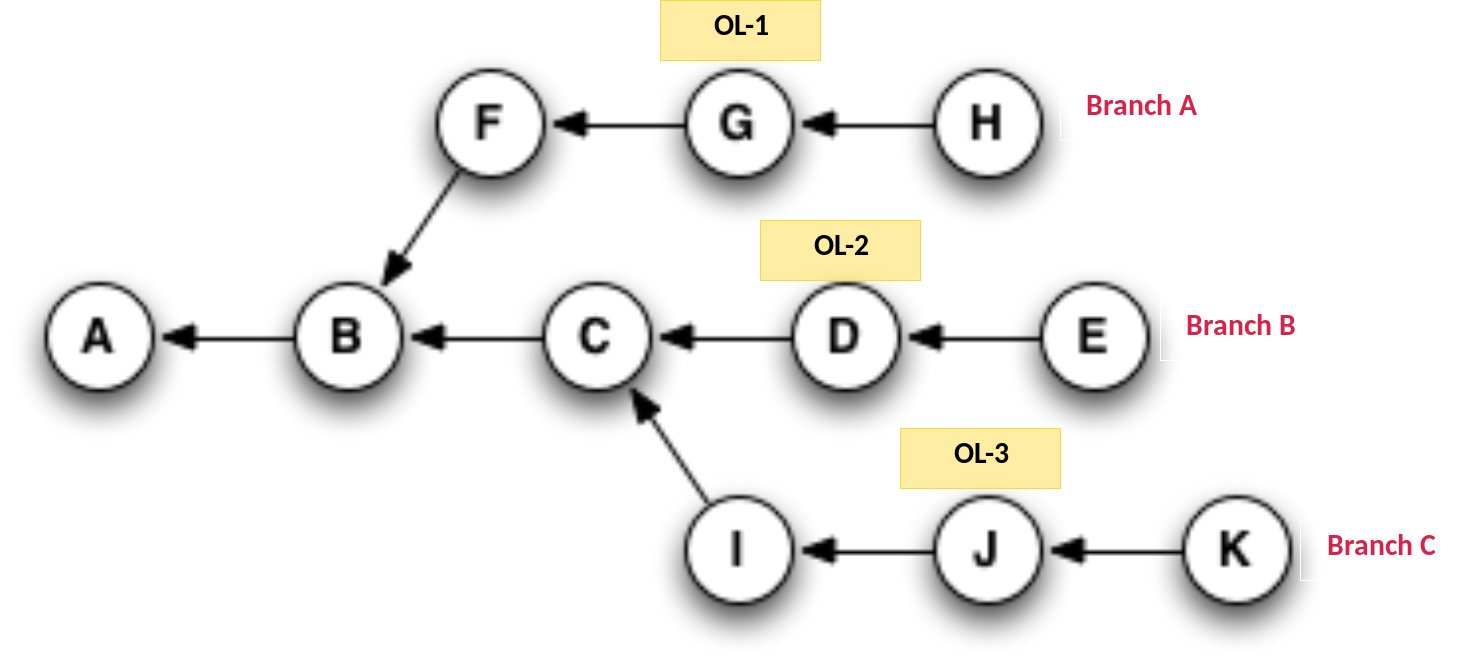
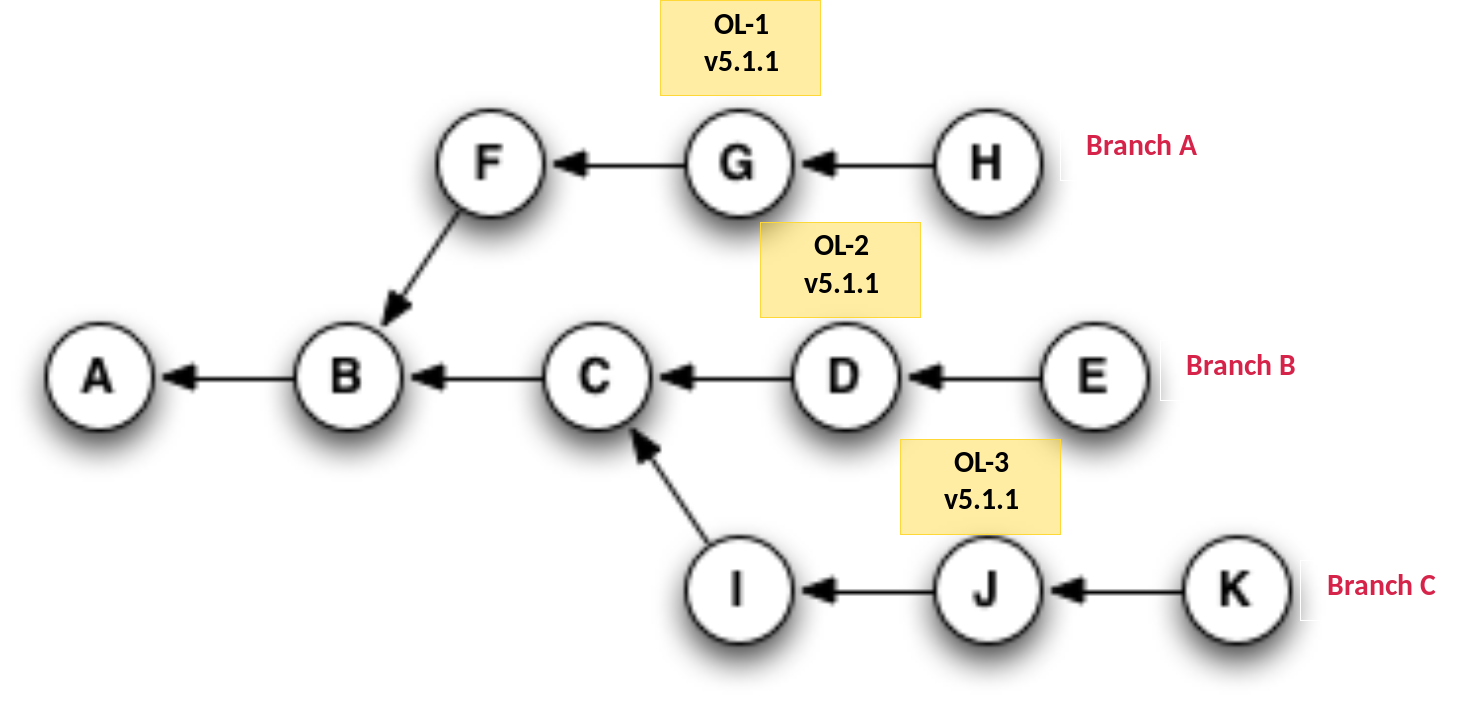
Add gitjira pictures and a thought.

Changed region(s): [[0.0, 0.0, 0.8932, 0.938], [0.8932, 0.8169, 0.9856, 0.8472]]

diff --git a/content/thoughts/cart and horse.md b/content/thoughts/cart and horse.md
@@ -1,0 +1,80 @@
+Title: Cart and Horse
+Date: 2020-07-12 10:57
+Slug: cart and horse
+Author: Feng Xia
+
+<figure class="col l4 m6 s12">
+  <img src="images/social%20distancing.png"/>
+</figure>
+
+
+It's a turmoil time, in America. It's a huge confusing time, that the
+Corvid-19 is being used as a case in point that China has done a
+brilliant job controlling the virus, while US is failing the _test_
+miserably, systematically. On top of all these, there is the racial
+fight, that all lives matter, or some lives matter, or B life matters
+(only?), and the looking back for redemption of historical sin, be it
+slavery, Columbus being a terrible person (and he was, based on what I
+heard on YouTube, and Noah confirms that), and so were the other many
+famous figures whose statues are now being questioned, toppled, hailed
+at its destruction, at its disfiguring, at its humiliation, at its
+deglorification.
+
+But then, it is a slippery slope, because, where would we stop? Whose
+status can still stand if viewing in such a hindsight judging w/
+modern day criteria, or moral threshold we believe today, but may not
+be so back then? This is the same dilemma of the [In Defense of
+History][1] how we can study history, or even view history, and ever
+be _objective_, _neutral_, _factual_ &larr; it is theoretically
+impossible.cThen, what's on the other side of all these _good words_!?
+&rarr; bias, prejudice, discrimination, and so on.
+
+The logic seems to be in a loop, that cart and horse, chicken and egg,
+which goes first? Many of the articles criticizing America's failure
+of dealing w/ virus and other social issues are rooted in a premise,
+in my opinion, that US has all the capacity to make a happy life for
+its citizens (and the entire human race), but it failed to do so,
+because it's so illy prepared that resulted in shortage of masks,
+ventilators, hospitals, jobs, and on and on and on, and therefore, as
+a consequence, people die, suffer, not having the American dream.
+
+However, who don't we question these, assumptions, first!? Who said
+American should be granted with such a life? Why would hospital stock
+enough ventilators while it doesn't know, and would never be able to
+predict, how many it needs for the next, emergency? And even once we
+know the wave is coming, how would we be so sure that we could have
+just stock up and ramp up, and will be ready for the hit, if we had
+chosen!? Honestly, even w/ good preparation and sincere effort as
+hoped, a disaster strike will still be, disastrous. It's like wearing
+thick clothes when removing a hornet nest from your porch &mdash; yes
+it will make the sting less painful, but no it's not a solution, thus
+should not be the goal on its own. Rather, you should start asking why
+hornet decides to put a nest there, and anywhere else he could live
+peacefully with you &mdash; after all, hornet didn't nest there just
+to annoy you. Sorry, he puts there because he didn't know it's YOUR
+HOME, and he sees it only a suitable place for his purpose, and likely
+you probably have driven him there because he doesn't have any woods,
+grasses, trees, shades, to build anymore since you wiped the
+environment out to build your highways and houses!
+
+Same here. Virus is not a phenomenon that God is punishing human. It
+has been in the nature, somewhere, until it touches one out of
+thousands of living things it touched already, human. We view them as
+evils, and they are, to us. But it's only a relative thing. We human
+are arrogant, just like we think American is arrogant, that we think
+we deserve a certain type of treatment, that the world, or the
+planent, or the universe, should bend to our will, cater to our
+interest, and satisfy our desire. That, is the root of all these, ill
+feelings. 
+
+I don't mean we should give up expectation, because that is not
+humanly possible. But I do think we should reestablish a discussion of
+social contract, that means two parties enter an agreement, and each
+end holds right, but more importantly, responsibility. The fight, if
+is a mean to bring the other person to the negotiation table, is
+necessary, but is not a mean to claim a victory, because negotiation
+is not a mark of either victory or defeat &mdash; it should be the
+starting point when two sides are now on the same footing, no more, no less.
+
+
+[1]: https://www.amazon.com/Defense-History-Richard-J-Evans/dp/0393319598

diff --git a/content/thoughts/517.md b/content/thoughts/517.md
@@ -3,6 +3,7 @@ Date: 2020-04-24 15:13
 Tags: thoughts
 Slug: 517
 Author: Feng Xia
+Modified: 2020-07-03
 
 Add my thoughts on how to remodel 517. I have some ideas. Most surely,
 I want a big bookshelf as my Boston home, and I'm going to remove
@@ -40,6 +41,9 @@ will see.
   <figcaption>Raaks engineering drawing</figcaption>
 </figure>
 
+6/21/2020 Bookshelf is up!! Loaded w/ 80% of my books now. Looks
+beautiful! Thank you Noah!
+
 # kitchen shelf
 
 Don't like wall cabinets &mdash; they are boxes on wall and so high
@@ -58,11 +62,41 @@ boring boxes!
 
 # kitchen
 
+## island
+
+- [ikea](https://www.ikea.com/us/en/p/rimforsa-work-bench-stainless-steel-bamboo-60399412/)
+  is nice. I wish I could afford the cb2, but it's too expansive.
+  
+  
+## display cabinet
+
+- Two of [ikea billy
+  79"](https://www.ikea.com/us/en/p/billy-oxberg-bookcase-with-glass-doors-white-s69281804/),
+  can create a whole wall of this and store/display bowls, plats, and
+  other things. I think it will look cool.
+
+- [a black metal
+  cabinet](https://www.luxedecor.com/product/four-hands-rockwell-casual-65-and-up-buffet-tables-sideboard-fsirck135),
+  looks pretty slick
+  
 ## dining table
 
 - [west
   elm](https://www.westelm.com/products/avery-wishbone-dining-table-h5056/?cm_src=PIPRecentView),
   like this one, 94""
+
+## extended counter
+
+- Using 2x this [Ikea
+  storage](https://www.ikea.com/us/en/p/flysta-shelf-unit-white-30377242/)
+  as base, and a 104" [butcher
+  block](https://www.lumberliquidators.com/ll/s/Butcher+Blocks?ogmap=SEM|RTN|GOOG|HYPLOCAL|c|SITEWIDE||||%2Bbutcher%20%2Bblocks|10206132847|104911530187&gclid=Cj0KCQjwirz3BRD_ARIsAImf7LOdROZBEp8Jb4eG_tKPRuqLvQqAreVYO_iQo97bdMfVnfj8wQNQzksaAigsEALw_wcB&averageoverallrating=2)
+  on top. Will be looked awesome I think. Now one of the idea is the
+  turn one of this storage vertical so to form a **L** shape w/
+  existing counter, thus giving a bit room divider feel. The other
+  idea is to put twy
+  yo side by side, and will fit **exact** to the wall
+  with 104" length.
   
 ## dining pendant light
 
@@ -87,7 +121,30 @@ boring boxes!
 
 - [gallery wall](https://heatherednest.com/wp-content/uploads/2019/05/domino-room-divider-2.jpg)
 
+- [CB2 cube
+  storage](https://www.crateandbarrel.com/sprout-natural-8-cubby-birch-bookcase/s533158)
+  
 # bed room pendant light
 
 - [fire house](https://www.idlights.com/industrial-firehouse-cannister-lighting/)
 - [potter barn](https://www.potterybarn.com/products/monterra-pendant-mp/?pkey=cpendants&isx=0.0.7347.5)
+
+# study as walk in closet & storage
+
+- two of [CB2 cube storage
+  4x4=16](https://www.crateandbarrel.com/sprout-natural-8-cubby-birch-bookcase/s533158)
+  will perfectly fit the long wall of 113"
+
+- [ikea IVAR
+  shelf](https://www.ikea.com/us/en/p/ivar-3-section-shelving-unit-pine-s69248386/)
+  is much cheaper than CB2 option, and is practical. However, it's
+  less than 12" deep!
+  
+- [ikea lixhult metal
+  cabinet](https://www.ikea.com/us/en/p/lixhult-storage-combination-dark-blue-s69279189/)
+  seem to be another viable option. 
+
+- [CB2 cloth
+  rack](https://www.crateandbarrel.com/flex-modular-clothing-rack/s334244)
+  to turn study into a walk in fitting room!? I think it will be cute :)
+ 

diff --git a/content/thoughts/noah says.md b/content/thoughts/noah says.md
@@ -69,3 +69,15 @@ been burned off by fire. So I asked what happened to it, he replied:
    that afternoon, he was my companion to 517 to clean up the mess
    left by the contractor, and on the way home I said thank you to him
    for being my companion. How funny!!
+   
+8. On our way home from 517, I was commenting on Noah's hair and asked
+   him "what is his secret". Guess what he said? He was very serious
+   and also in a good mood, responded that "I will give you one
+   advice, is to use woman product." "Why woman product?" "因为她们总
+   是想要look good, so you must use woman product" "所以你用她们的
+   product, 你也会look good" "是啊，and I use 妈的shampoo" "是吧， 但
+   是那都得等很久，像什么15分钟，我没那个耐心，那你怎么办的？" "I will
+   meditate" "meditate?" "yeah" "what if it's still too long?" "那我就
+   put on more shampoo"... hahahaha.... this is the very first time
+   Noah seriously gives me his advice, and you can tell he is really
+   believing in his own discovery in this one!

diff --git a/content/dev/git.md b/content/dev/git.md
@@ -156,3 +156,8 @@ all the old changes. How to do that?
 ```shell
 git push -d origin <branch_name>
 ```
+# Ref
+
+I like [this blog][1].
+
+[1]: https://ohshitgit.com/

diff --git a/content/thoughts/will.md b/content/thoughts/will.md
@@ -4,7 +4,7 @@ Slug: will
 Author: Feng Xia
 
 
-<figure class="s12 center">
+<figure class="col s12 center">
   <img src="images/will.png"/>
 </figure>
 
